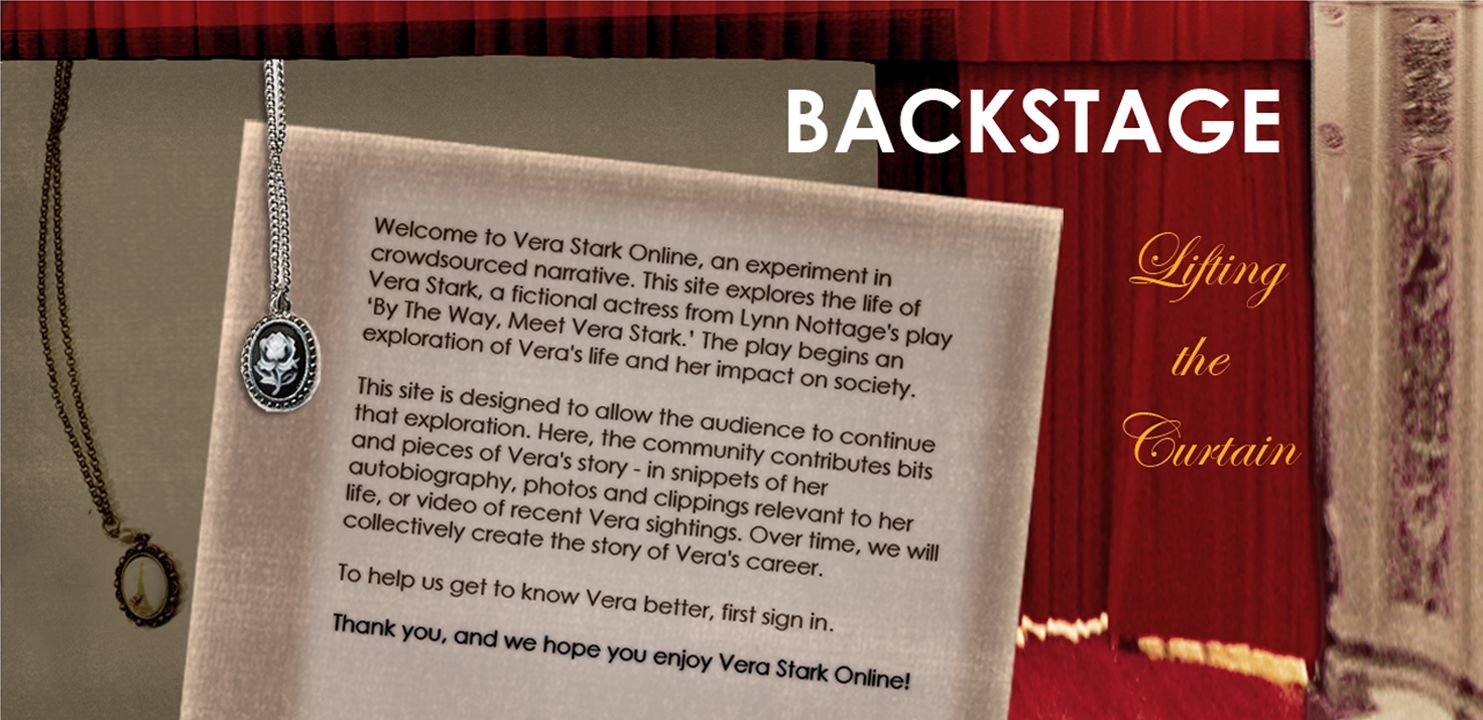
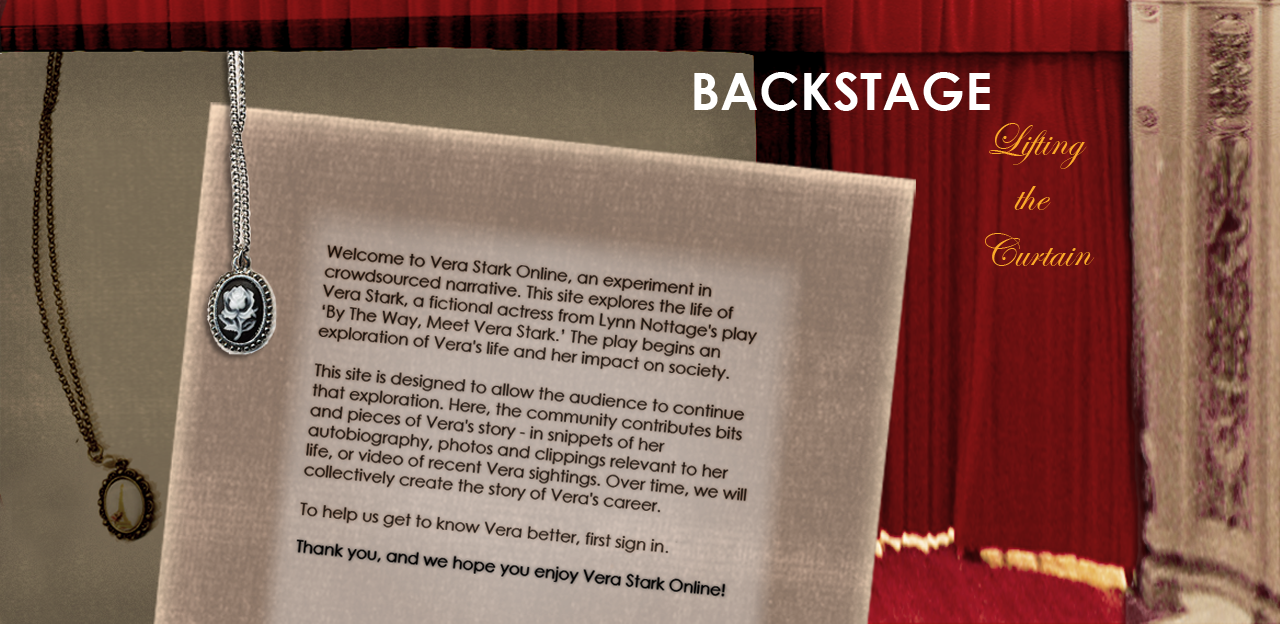
updated files

diff --git a/main/webapp/index.html b/main/webapp/index.html
@@ -60,46 +60,57 @@
     
     <div class="splash_blurb">
 			
-	<p><center><b><font size="5">
+	<text><center><b>
 	
 
-	Welcome to Vera's Third Act.
+	What Happened to Vera?
 
-	</center></b></font></p>	
+	</center></b></text>	
 	
       
-	<center><p>
-		Congratulations! You are about to make history.
-	</center></p>	
 	<p>
-		If you have found this site, I assume you have already attended my lecture in 'By the Way, Meet Vera Stark' and are
-		interested in continuing that conversation. If so, you are in the right place.
+		In October of 1973, shortly after her disastrous final performance at
+	the Folies Bergere, the legendary African American Actress Vera Stark
+	vanished from the public eye overnight. Theories abound as to what
+	became of her; alleged Vera Stark encounters rival Elvis Presley
+	sightings in number.
+
+	</p>	
+	<p>
+		The Vera sightings are as diverse as the roles she played on screen;
+	she has been seen working as a maid in Florida, a crossing guard in
+	Alabama, a homeless woman in California. Others claim she ODed in a
+	hotel room and was buried anonymously, her body never claimed nor
+	identified.
 	</p> 
 	      		
-	<p><center>
-	First, please
-	<a href="/user_mgt/login"style="color: #FFFFCC">
+	<p><center><b>
+	What is the truth behind Vera Stark's disappearance?
+	</center></b></p>
 
-	sign up
 
-	</a> 
-
-	to join in on our conversation about Vera.
-
-	</center></p>
 	
-    <p> 
-		In the words of that wise old sage Grandford Ellis, 
-		"History is a question constantly being rephrased." The more relevant content you include, the more we can all better understand
-		what happened to Vera Stark. I can't wait to embark on this journey together.
+    	<p> 
+		This website is an invitation to learn more about the rich and
+	controversial legacy of actress Vera Stark.
+	Help us solve the mystery that continues to haunt generations of her
+	fans, "Why and how did Vera disappear without a trace?"
+
 	</p>
-	
-	<i><p><center>	       
-		
-	- Herb F. 
+
+	<p> 
+		Join the conversation, and help us uncover the truth behind what
+		really happened to Vera,
+
+	</p>
 
 	
-	</i></center></p>
+	<p><center>       
+		
+	Herb Forrester
+
+	
+	</center></p>
 	
 
 

diff --git a/main/webapp/css/style.css b/main/webapp/css/style.css
@@ -958,10 +958,10 @@ div.splash_image {
 div.splash_blurb {
 	position: fixed;
 	z-index: 1;
-	height: 275px;
+	height: 290px;
 	left: 100px;
 	right: 100px;
-	bottom: 5px;
+	bottom: 3px;
 	background-color: rgba(0,0,0,0.8);
 	padding: 30px;
 	font-family:"Tw Cen MT", sans-serif;
